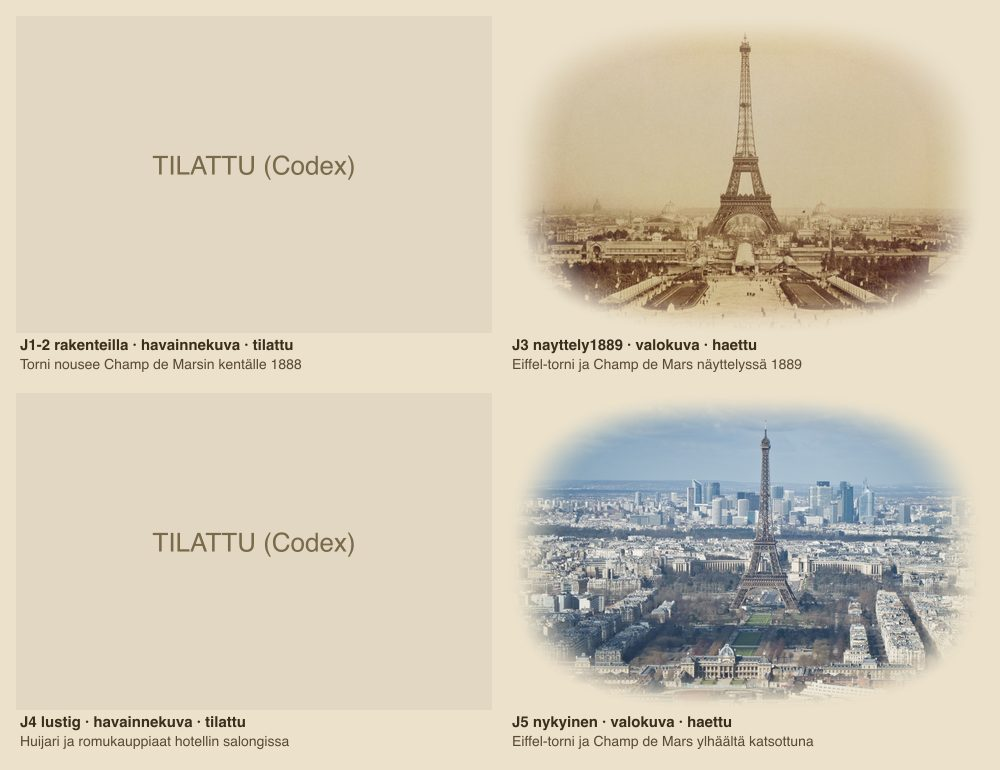
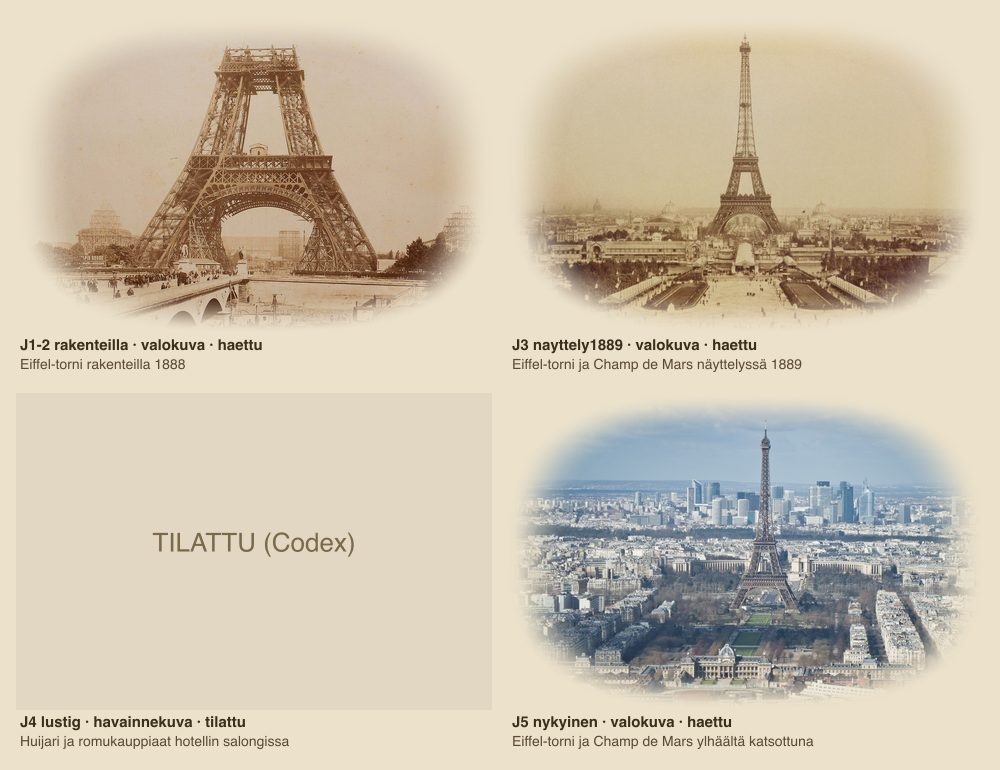
K-4 erä 1 korjaukset (KK 11.42): Eiffel J1–2 Neurdein 1888, Garnier J3 Hauger-kaiverrus ja J1 esirajaus, Lavoisier J1 pois, Curie-korvaustilaus, raportit ja arkit

Changed region(s): [[0.031, 0.0623, 0.496, 0.4987]]

diff --git a/js/packs/fokuskohteet-fra.js b/js/packs/fokuskohteet-fra.js
@@ -648,11 +648,13 @@ export const FOKUSKOHTEET_FRA = [
     jaksot: [
       {
         osa: 'tapahtuma',
+        kuva: 'rakenteilla',
         teksti: 'Eiffel-torni rakennettiin seisomaan vain kaksikymmentä vuotta, ja kerran huijari myi sen '
           + 'romuksi. Ennen tornia paikalla oli Champ de Mars, sotilaiden harjoituskenttä.',
       },
       {
         osa: 'tapahtuma',
+        kuva: 'rakenteilla',
         teksti: 'Vuonna 1887 kentälle alettiin koota rautatornia maailmannäyttelyä varten. Työmiehet niittasivat '
           + 'tuhansia osia yhteen yhä korkeammalla. Moni pariisilainen vastusti tornia, mutta vuonna 1889 se '
           + 'oli valmis.',
@@ -685,6 +687,16 @@ export const FOKUSKOHTEET_FRA = [
       },
     ],
     jaksokuvat: {
+      rakenteilla: {
+        osoite: 'https://media.matkakirja.app/kuvat/eiffel-torni-rakenteilla.jpg',
+        laji: 'valokuva',
+        lyhyt: 'Eiffel-torni rakenteilla 1888',
+        lahde: 'Neurdein, 1888, Wikimedia Commons (public domain), rajattu',
+        tekija: 'Neurdein',
+        lisenssi: 'Public domain',
+        leveys: 1200,
+        korkeus: 800,
+      },
       nayttely1889: {
         osoite: 'https://media.matkakirja.app/kuvat/eiffel-torni-nayttely1889.jpg',
         laji: 'valokuva',
@@ -1116,7 +1128,7 @@ export const FOKUSKOHTEET_FRA = [
     jaksot: [
       {
         osa: 'tapahtuma',
-        kuva: 'laboratorio',
+        kuva: 'koe',
         teksti: 'Lavoisierin laboratorio oli Arsenaalin asunnon yhteydessä Pariisissa. Antoine Lavoisier johti '
           + 'Arsenaalissa ruudin valmistusta ja punnitsi laboratoriossaan kaiken ennen koetta ja sen jälkeen. '
           + 'Tuloksista hän päätteli, että ainetta on kokeen jälkeen yhtä paljon kuin ennen sitä.',
@@ -1158,16 +1170,6 @@ export const FOKUSKOHTEET_FRA = [
      * hetken havainnekuva sekä jaksoille 4 ja 5 Commons-kuvat (SK 18.11.2026, KK 03.32).
      */
     jaksokuvat: {
-      laboratorio: {
-        osoite: 'https://media.matkakirja.app/kuvat/lavoisier-1780-laboratorio.jpg',
-        laji: 'havainnekuva',
-        lyhyt: 'Lavoisier ja laboratorion välineet, havainnekuva',
-        lahde: 'Tekoälyllä tuotettu havainnekuva; Matkakirjan havainnekuva. Faktat: Science History Institute; laboratorion sisustus on dramatisoitu, rajattu',
-        tekija: 'Matkakirja (tekoälyllä tuotettu havainnekuva)',
-        lisenssi: 'Matkakirjan oma',
-        leveys: 1200,
-        korkeus: 800,
-      },
       koe: {
         osoite: 'https://media.matkakirja.app/kuvat/lavoisier-1780-koe.jpg',
         laji: 'piirros',
@@ -1417,6 +1419,7 @@ export const FOKUSKOHTEET_FRA = [
       },
       {
         osa: 'kaanne',
+        kuva: 'palo',
         teksti: 'Syksyllä 1873 vanha oopperatalo paloi. Palon jälkeen Garnierin työmaa sai jatkua, ja uusi talo '
           + 'valmistui alle kahdessa vuodessa.',
         vuodet: [
@@ -1439,7 +1442,7 @@ export const FOKUSKOHTEET_FRA = [
         osoite: 'https://media.matkakirja.app/kuvat/palais-garnier-piirtosali.jpg',
         laji: 'valokuva',
         lyhyt: 'Arkkitehdit Garnierin piirtosalissa',
-        lahde: 'Louis-Émile Durandelle, Metropolitan Museum of Art, Wikimedia Commons (CC0), rajattu',
+        lahde: 'Louis-Émile Durandelle, Metropolitan Museum of Art, Wikimedia Commons (CC0), esirajattu ja rajattu',
         tekija: 'Louis-Émile Durandelle',
         lisenssi: 'CC0',
         leveys: 1200,
@@ -1451,6 +1454,16 @@ export const FOKUSKOHTEET_FRA = [
         lyhyt: 'Palais Garnierin työmaa 1866',
         lahde: 'Delmaet & Durandelle 1866, Wikimedia Commons (CC0), rajattu',
         tekija: 'Delmaet & Durandelle',
+        lisenssi: 'CC0',
+        leveys: 1200,
+        korkeus: 800,
+      },
+      palo: {
+        osoite: 'https://media.matkakirja.app/kuvat/palais-garnier-palo.jpg',
+        laji: 'piirros',
+        lyhyt: 'Vanhan oopperatalon palo rue Le Peletierillä',
+        lahde: 'Arthur Hauger (Le Monde illustré, 1873), Paris Musées / Musée Carnavalet, Wikimedia Commons (CC0), esirajattu ja rajattu',
+        tekija: 'Arthur Hauger',
         lisenssi: 'CC0',
         leveys: 1200,
         korkeus: 800,

diff --git a/docs/raportit/pariisi-nostojen-kuvat-era1-k4-20261120.md b/docs/raportit/pariisi-nostojen-kuvat-era1-k4-20261120.md
@@ -2,11 +2,13 @@
 
 Haara `sk/k4-era1-kuvat` (pohjana sk/l5-nostotekstit-era1 + origin/main K-3), draft-PR, EI mainiin ennen KK:n sanaa. Kuvia ei ole ladattu ämpäriin: vientikuvat ovat kansiossa `/Users/Shared/Claude/luovutukset/sk-k4-era1/_ampari/` (osoitteet `https://media.matkakirja.app/kuvat/<nimi>.jpg`, hahmotelmien ihmekuva `…/kohtaamiset/ihmeet/<nimi>-3x2.jpg`), ja ne pitää viedä ämpäriin ennen kuin PR yhdistetään (JU/PT).
 
+**Korjauskierros KK:n päätöksellä 20.11. 11.42** (aito kuva ensin; pääaihe häivyttämättömällä keskialueella 75 % × 75 %; esirajaus sharpilla sallittu, tulos ≥ 1200 × 800, lähderiviin "rajattu"): Eiffel J1–2 Neurdein 1888 aitona (Codex-tilaus pois), Garnier J3 Hauger-kaiverrus esirajattuna (Codex-tilaus pois) ja J1 piirtosali esirajattu oman ovaalinsa sisään, Lavoisier J1:n havainnekuva pois (piirros kattaa J1–2), Curie J1:n korvaava kuva tilauslistalle, Pasteur J2–3 ja Eiffel J3 mitattu (ks. luku 4). Luvut alla ovat korjauksen jälkeen.
+
 ## 1. M2: rikkeet ennen | nyt (13 noston osalta)
 
 - **Ennen** (origin/main, lähtöluettelo): 13 nostoa rikkoo; liikaa 5, tekijä 13, lisenssi 13, mitat 13, havainnekuvan lähderivi 6.
-- **Nyt:** 3 nostoa rikkoo, kaikki `vajaa` ja kaikki odottavat Codex-kuvaa: **eiffel-torni** (2 kuvaa, 2 tilattu), **sainte-chapelle** (1 kuva, 3 tilattu), **curie-1898** (2 kuvaa, 2 tilattu). Louvre ja Garnier ovat 3 kuvaa + 1 tilattu: 3 kuvaa riittää, joten ne eivät rikko.
-- Lähtöluettelo päivitetty (`docs/raportit/pariisin-nostokuvat-rikkeet-lahto-20261120.json`): 46 → 36 rikkovaa nostoa. Huom. B:n (4 kadonnutta) `vajaa` kasvoi, koska KK:n päätöksellä 10.44 niiden nähtävyysjuttukopiot poistuivat (kuvat tulevat K-4:n myöhemmässä erässä); `tools/sisalto/nostokuvien-tarkistus.mjs` lukee B:n nyt hahmotelmasta (`B_HAHMOTELMA`): PK:n tiedoston muutos, ilmoitettu KK:lle.
+- **Nyt:** 2 nostoa rikkoo, kumpikin `vajaa` ja odottaa Codex-kuvia: **sainte-chapelle** (1 kuva, 3 tilattu) ja **curie-1898** (2 kuvaa, 3 tilattu). Eiffel on nyt 3 kuvaa + 1 tilattu (Lustig), joten se ei enää riko. Louvre on 3 kuvaa + 1 tilattu: 3 kuvaa riittää, joten ne eivät rikko.
+- Lähtöluettelo päivitetty (`docs/raportit/pariisin-nostokuvat-rikkeet-lahto-20261120.json`): 46 → 35 rikkovaa nostoa. Huom. B:n (4 kadonnutta) `vajaa` kasvoi, koska KK:n päätöksellä 10.44 niiden nähtävyysjuttukopiot poistuivat (kuvat tulevat K-4:n myöhemmässä erässä); `tools/sisalto/nostokuvien-tarkistus.mjs` lukee B:n nyt hahmotelmasta (`B_HAHMOTELMA`): PK:n tiedoston muutos, ilmoitettu KK:lle.
 - Testit: tasalaatu, noston-jaksot, noston-kuvat, noston-tekstisaannot, kuvatekijat, lisenssit vihreät. Tuileries'n kaksi testiä päivitetty uusiin kuviin (4 kuvaa).
 
 ## 2. Kuvien tila nostoittain
@@ -16,32 +18,32 @@ Haara `sk/k4-era1-kuvat` (pohjana sk/l5-nostotekstit-era1 + origin/main K-3), dr
 | tuileries | 3 | 1 | 0 | 4 |
 | louvre | 2 | 1 | 1 | 3 |
 | bastilji | 3 | 1 | 0 | 4 |
-| eiffel-torni | 0 | 2 | 2 | 2 |
+| eiffel-torni | 0 | 3 | 1 | 3 |
 | sainte-chapelle | 1 | 0 | 3 | 1 |
-| curie-1898 | 1 | 1 | 2 | 2 |
+| curie-1898 | 1 | 1 | 3 | 2 |
 | lumiere-1895 | 0 | 4 | 0 | 4 |
-| lavoisier-1780 | 1 | 3 | 0 | 4 |
+| lavoisier-1780 | 0 | 3 | 0 | 3 |
 | pasteur-1862 | 0 | 4 | 0 | 4 |
-| palais-garnier | 0 | 3 | 1 | 3 |
+| palais-garnier | 0 | 4 | 0 | 4 |
 | palais-orsay | 1 | 3 | 0 | 4 |
 | palais-industrie | 3 | 1 | 0 | 4 |
 | les-halles | 3 | 1 | 0 | 4 |
-| **yhteensä** | 18 | 25 | 9 | 43 |
+| **yhteensä** | 17 | 27 | 8 | 44 |
 
 ## 3. M-rivit
 
 - **M1 silmin:** luku 5 (jakso | kertoja sanoo | kuva | laji | lähde, tekijä, lisenssi, linkki | tila, nostoittain) ja 13 kontaktiarkkia `docs/raportit/k4-era1-kontaktiarkit/<nosto>.jpg` (soikea reuna beigellä pohjalla, 1000 px leveä; tilattu kuva = tyhjä laatta).
 - **M2:** luku 1.
 - **M3:** jokaisen haetun kuvan lisenssi ja tekijä luettu Commonsin rajapinnasta `tools/hae-commons.mjs`-työkalulla (pyynnöt peräkkäin, ei virheitä), kuva katsottu silmin, rajattujen lähderivi päättyy "rajattu"; linkit luvussa 5.
-- **M4:** Codexin tilauslista omana tiedostonaan: `docs/raportit/pariisi-nostojen-kuvat-era1-codex-tilauslista-20261120.md` (9 kuvaa, pohja täytettynä; KOKO-rivi lisätty). Tilauksia ei ole lähetetty (K-5).
+- **M4:** Codexin tilauslista omana tiedostonaan: `docs/raportit/pariisi-nostojen-kuvat-era1-codex-tilauslista-20261120.md` (8 kuvaa, pohja täytettynä; KOKO-rivi lisätty; Curien korvaava vajakuva lisätty, Eiffel J1–2 ja Garnier J3 poistettu). Tilauksia ei ole lähetetty (K-5).
 - **M5:** viimeinen kuva on valokuva niissä nostoissa, joissa kuvia on; havainnekuvan lähderivi alkaa "Tekoälyllä tuotettu havainnekuva" ja laji-kenttä on jokaisella kuvalla (tasalaatutesti). Eiffel, Sainte-Chapelle ja Curie odottavat tilausta, ja niiden viimeinen kuva on valokuva jo nyt (Eiffel: Tour Montparnassen näköalapaikka; Sainte-Chapelle: yläkappelin ikkunat; Curie: muistolaatta).
 
 ## 4. Avoimet kohdat KK:lle (ei tekstimuutoksia omin päin)
 
-1. **Ämpäri:** 43 uutta 1200 × 800 -kuvaa pitää viedä ämpäriin (`_ampari/`, myös 2048 px:n versiot suurennoksiin) ennen kuin PR yhdistetään. Hahmotelmien (Orsay, Industrie, Les Halles) ihmekuva korvattiin 3:2-rajauksella (`kohtaamiset/ihmeet/…-3x2.jpg`), jotta noston kuvalista on 4 eikä 5; Tuileries'n ja Bastiljin `ihme.osoite` ja jakson 1 kuva ovat samat: `kohtaamiset/ihmeet/ihme-<id>-loistoaika-v2-3x2.jpg`. Kartan ihmekortin kuva muuttuu siis 3:2-versioksi.
-2. **Tilatut jaksot jäivät ilman kuvaa**, kunnes Codex-kuvat tulevat (Eiffel J1–2 ja J4, Sainte-Chapelle J1–4 paitsi J5, Curie J2–4, Louvre J2–3, Garnier J3). Vanhat hylätyt kuvat eivät ole nostossa (kasvot lähikuvana, kehys, liian pieni); ne eivät poistu palvelimelta.
-3. **Visat:** yksikään kuvateksti ei paljasta vastausta; Lavoisierin J1 Codex-kuva (nainen piirtää laitepiirustusta) vihjaa Marie-Annen osuuteen (visan vastaus) ja Tuileries'n purkukuvassa seisovat muurit ovat visan vastaus "Kivimuurit"; päätettävä, riittääkö.
-4. **Heikot kohdat:** Les Hallesin purkukuva (1971; lisenssi CC BY-SA 4.0 rajapinnasta, vuosi todennettavissa vain luokista) · Les Hallesin loistokuvan torimummon kasvot puolilähikuvana (tekoälykuvan kasvosääntö, rajalla; pidetty) · Lumièren J1 bulevardikuvan tekijä ja vuosi eivät ole Commonsissa · Garnierin piirtosalivedoksen oma ovaali erottuu hieman oikeassa reunassa · Lavoisier J4: seinässä haalea museokirjoitus · Eiffel J3 on vuodelta 1889 vaikka jakso sanoo "kaksikymmentä vuotta kului", huippu yläreunan häivytyksessä · Industrien portti on julkisivun lähikuva · Orsayn Liébert-kuvan päädyt häipyvät.
+1. **Ämpäri:** 44 uutta 1200 × 800 -kuvaa pitää viedä ämpäriin (`_ampari/`, myös 2048 px:n versiot suurennoksiin) ennen kuin PR yhdistetään. Hahmotelmien (Orsay, Industrie, Les Halles) ihmekuva korvattiin 3:2-rajauksella (`kohtaamiset/ihmeet/…-3x2.jpg`), jotta noston kuvalista on 4 eikä 5; Tuileries'n ja Bastiljin `ihme.osoite` ja jakson 1 kuva ovat samat: `kohtaamiset/ihmeet/ihme-<id>-loistoaika-v2-3x2.jpg`. Kartan ihmekortin kuva muuttuu siis 3:2-versioksi.
+2. **Tilatut jaksot jäivät ilman kuvaa**, kunnes Codex-kuvat tulevat (Eiffel J4, Sainte-Chapelle J1–4 paitsi J5, Curie J1 (nykyinen havainnekuva pidetään kunnes korvaava tulee), J2–4, Louvre J2–3). Vanhat hylätyt kuvat eivät ole nostossa (kasvot lähikuvana, kehys, liian pieni); ne eivät poistu palvelimelta.
+3. **Visat:** yksikään kuvateksti ei paljasta vastausta. Lavoisierin J1 Codex-kuva poistettu (KK 11.42); Tuileries'n purkukuva hyväksytty (kertoja sanoo saman jaksossa 3). Visasääntö (KK 11.42): kuva saa näyttää sen, minkä kertoja samassa jaksossa sanoo; ei ennen sitä, eikä kuvatekstissä koskaan.
+4. **Heikot kohdat (korjauskierroksen jälkeen):** Les Hallesin purkukuva (1971; lisenssi CC BY-SA 4.0 rajapinnasta) · Les Hallesin torimummon kasvot puolilähikuvana · Lumièren J1 bulevardikuvan tekijä ja vuosi eivät ole Commonsissa · Lavoisier J4: seinässä haalea museokirjoitus · Industrien portti on julkisivun lähikuva · Orsayn Liébert-kuvan päädyt häipyvät (KK hyväksyi nämä 11.42). **Uudet mitat:** Eiffel J1–2 Neurdein: torni 9–80 % kuvan korkeudesta, huipun ylin kohta n. 3 prosenttiyksikköä häivytyksen puolella (lähteessä ei ole lisää ilmaa; muuten jalat ja sivut häivyttämättömällä alueella). Eiffel J3: lähteessä ei ilmaa lisää yläpuolella, jää ennalleen (torni 5–70 %). **Pasteur J2–3 pullokuva:** 3:2-rajaus täyttää lähteen koko leveyden (3840 px), joten --keski oikealle ei auta; mitat 1200 × 800 -kuvassa: pallo x 63–87 %, y 54–97 % (jalusta soikean häivytyksen puolella). Muuttamatta jätetty; ainoa keino olisi taustan laajennus (ei pelkkää rajausta) tai toinen kuva: KK päättää.
 5. **Jaksot ilman omaa kuvaa:** Lumièren J4–5 (jono, laatta), Pasteurin Pouchet ja jäätikkö (varakuva Bissonin Chamonix 1860, PD, ladattu), Garnierin murhayritys 1858, Berlioz'n juhla (Industrie J3), Philippe Augusten 1183 ja Forum des Halles (Les Halles J1, J5).
 6. **Työkalut:** `tools/hae-commons.mjs lataa` kirjoittaa oletuksena repon sisään ja lyhentää nimet 60 merkkiin; `node_modules` puuttuu checkoutista (sharp ajettiin Matkakirja-fablen asennuksesta).
 
@@ -153,19 +155,19 @@ Haara `sk/k4-era1-kuvat` (pohjana sk/l5-nostotekstit-era1 + origin/main K-3), dr
 
 | Jakso | Kertoja sanoo | Kuva | Laji | Lähde, tekijä, lisenssi, linkki | Tila |
 |---|---|---|---|---|---|
-| 1-2 | Eiffel-torni rakennettiin seisomaan vain kaksikymmentä vuotta, ja kerran huijari myi sen romuksi. Ennen tornia paikalla oli Champ de Mars, sotilaiden harjoituskenttä. / Vuonna 1887 kentälle alettiin koota rautatornia maailmannäyttelyä varten. Työmiehet niittasivat tuhansia osia yhteen yhä korkeammalla. Moni pariisilainen vastusti tornia, mutta vuonna 1889 se oli valmis. | rakenteilla: Torni nousee Champ de Marsin kentälle 1888 (ei kuvaa) | havainnekuva | Matkakirjan oma (tilaus, ks. TILAUKSET.md 1) | tilattu |
+| 1-2 | Eiffel-torni rakennettiin seisomaan vain kaksikymmentä vuotta, ja kerran huijari myi sen romuksi. Ennen tornia paikalla oli Champ de Mars, sotilaiden harjoituskenttä. / Vuonna 1887 kentälle alettiin koota rautatornia maailmannäyttelyä varten. Työmiehet niittasivat tuhansia osia yhteen yhä korkeammalla. Moni pariisilainen vastusti tornia, mutta vuonna 1889 se oli valmis. | rakenteilla: Eiffel-torni rakenteilla 1888 (eiffel-torni-rakenteilla.jpg) | valokuva | Neurdein, 1888, Wikimedia Commons (public domain), rajattu; https://commons.wikimedia.org/wiki/File:Paris,_Tour_Eiffel_by_Neurdein,_1888.jpg | haettu |
 | 3 | Kaksikymmentä vuotta kului, mutta kukaan ei purkanut tornia. Sen huipulla oli radioantenni, ja armeijalle siitä oli niin paljon hyötyä, että torni sai jäädä. | nayttely1889: Eiffel-torni ja Champ de Mars näyttelyssä 1889 (eiffel-torni-nayttely1889.jpg) | valokuva | Tuntematon valokuvaaja, Wikimedia Commons (Public domain), rajattu; https://commons.wikimedia.org/wiki/File:Eiffel_Tower_and_Champ_de_Mars_seen_from_Trocad%C3%A9ro_Palace,_Paris_Exposition,_1889.jpg | haettu |
 | 4 | Vuonna 1925 huijari Victor Lustig luki lehdestä, että tornin kunnossapito on kallista. Väärennetyin virkapaperein hän esiintyi ministeriön apulaisjohtajana ja myi muka tornin romukauppiaalle. Kauppias häpesi eikä ilmoittanut poliisille, joten Lustig palasi ja yritti uudestaan. | lustig: Huijari ja romukauppiaat hotellin salongissa (ei kuvaa) | havainnekuva | Matkakirjan oma (tilaus, ks. TILAUKSET.md 2) | tilattu |
 | 5 | Torni seisoo yhä. Vanha harjoituskenttä on nykyään puisto sen jalalla, ja ensimmäisen kerroksen alle on kirjoitettu kullatuin kirjaimin 72 ranskalaisen tiedemiehen ja insinöörin nimeä. | nykyinen: Eiffel-torni ja Champ de Mars ylhäältä katsottuna (eiffel-torni-nykyinen.jpg) | valokuva | Carlos Delgado, Wikimedia Commons (CC BY-SA 3.0), rajattu; https://commons.wikimedia.org/wiki/File:Tour_Eiffel,_%C3%89cole_militaire,_Champ-de-Mars,_Palais_de_Chaillot,_La_D%C3%A9fense_-_01.jpg | haettu |
 
-Yhteensä: 2 haettu, 2 tilattu, 0 pidetään.
+Yhteensä: 3 haettu, 1 tilattu, 0 pidetään (KK 20.11. 11.42: jakson 1–2 tilaus poistui, aito Neurdein 1888).
 
 #### Perustelut
 
 - 5 jaksoa, 4 kuvaa: yksi kuva (jakso 1-2) kattaa avauksen (Champ de Mars) ja rakentamisen.
 - Jakso 5: valokuva Tour Montparnassen näköalapaikalta; torni kokonaan, ja sen jalalla näkyy Champ de Marsin puisto, jonka jakso mainitsee. Tämä oli ainoa löytämäni vapaa vaakakuva, jossa torni on kokonaan ja korkeus on 60 % kuvasta. Mitta: torni 9-69 % kuvan korkeudesta, keskellä vaakasuunnassa; sijainti on noin 11 prosenttiyksikköä tavoitetta ylempänä, koska lähdekuva on jo 3:2 eikä ylhäältä voi rajata lisää ilmaa. Antennin kärki on yläreunan häivytyksessä.
 - Jakso 3: ei vapaata vaakakuvaa 1900-luvun alusta, jossa torni on kokonaan (LoC:n photochromit ovat pystykuvia tai tornin huippu leikkautuu). Valittu 1889 Trocadéron näkymä (sepia): torni kokonaan, Champ de Mars ja näyttelyalue taustalla. Mitta: torni 5-70 % kuvan korkeudesta, huippu osin yläreunan häivytyksessä.
-- Jakso 1-2 ja 4: tilaus. Keskeneräisestä tornista ei ole vapaata vaakakuvaa, jossa torni mahtuu 60 %:iin (Neurdein 1888: torni 73 %; Decauville-kuva: torni oikealla 36-92 %; Durandelle ja Féau pystykuvia). Lustigin huijauksesta ei ole valokuvaa.
+- Jakso 1-2 (KK 20.11. 11.42): Neurdein 1888 aitona (lähde 1600 x 1282, rajaus 1600 x 1067 ylärivistä; torni 9–80 % kuvan korkeudesta, jalat ja sivut häivyttämättömällä alueella, huipun ylin kohta 9 %:ssa eli n. 3 prosenttiyksikköä häivytyksen puolella; lähteessä ei ole lisää ilmaa yläpuolella). Jakso 4: tilaus (Lustig, ei valokuvaa).
 
 #### Hylätty
 
@@ -181,7 +183,7 @@ Yhteensä: 2 haettu, 2 tilattu, 0 pidetään.
 
 1. VISA: 'Miksi huijarin uhri ei ilmoittanut huijauksesta poliisille?' vastaus 'Hän häpesi'. Kuvatekstit eivät mainitse häpeää; Lustig-tilauksessa kielto "kauppiaiden häpeä".
 2. Jakso 3: kuvan vuosi 1889, jakso puhuu 20 vuoden jälkeisestä ajasta ja antennista (kuvateksti "näyttelyssä 1889" kertoo kuvan, ei väitä muuta). Vaihtoehto: tilata Codex-kuva tornista noin 1914 antenneineen.
-3. Kaksi kuvaa tilattu (1-2, 4); nämä vaativat Codex-ajon ennen vientiä. Jakson 4 tilauksesta puuttuu hotellisalongin viitekuva (Hôtel de Crillon; ei varmistettu).
+3. Yksi kuva tilattu (jakso 4, Lustig); vaatii Codex-ajon ennen vientiä. Jakson 4 tilauksesta puuttuu hotellisalongin viitekuva (Hôtel de Crillon; ei varmistettu).
 4. Sivutuote: jakson 5 kuvassa Palais de Chaillotin siivet ovat taustalla pieninä; ei pääaihe.
 5. Tornin mitat 60 %:iin eivät täyty kummassakaan haetussa kuvassa täsmälleen (kts. yllä); tarkempi mittaus vaatisi uuden kuvan.
 
@@ -232,7 +234,7 @@ Yhteensä: 1 pidetään, 0 haettu, 3 tilattu.
 | 4 | Työ vei yli kolme vuotta, ja vuonna 1902 heillä oli kymmenesosagramma puhdasta radiumkloridia. Iltaisin radium hohti pimeässä, ja Curiet ihailivat sitä. Marie sai fysiikan Nobelin vuonna 1903 Pierren ja Henri Becquerelin kanssa ja kemian Nobelin vuonna 1911 yksin. | hohto: Radium hohtaa pimeässä vajan hämärässä 1902 (ei kuvaa) | havainnekuva | Matkakirjan oma (TILAUKSET.md 2) | tilattu |
 | 5 | Koulun seinässä on laatta, joka kertoo löydöstä. Marien myöhempi laboratorio on lähellä Curie-museona. | laatta: Laatta kertoo radiumin löydöstä koulun seinässä (curie-1898-laatta.jpg) | valokuva | Monceau from San Antonio, Wikimedia Commons (CC BY 2.0), rajattu; https://commons.wikimedia.org/wiki/File:Plaque_-_Location_de_d%C3%A9couvert_du_radium_-_rue_Pierre_Brossolette,_Paris_5.jpg | haettu |
 
-Yhteensä: 1 pidetään, 1 haettu, 2 tilattu.
+Yhteensä: 1 pidetään, 1 haettu, 3 tilattu (KK 20.11. 11.42: jakson 1 havainnekuva pidetään toistaiseksi, korvaava kuva tilataan).
 
 #### Perustelut
 
@@ -251,7 +253,7 @@ Yhteensä: 1 pidetään, 1 haettu, 2 tilattu.
 #### Avoimet kysymykset KK:lle
 
 1. VISA: 'Minkä alkuaineen Curiet nimesivät Marien kotimaan mukaan?' vastaus Polonium. Kuvatekstit eivät mainitse poloniumia; tilauksen 1 kielto "alkuaineiden nimet" lisätty. Jakso 1 kuvateksti ja jakso 5 mainitsevat radiumin (vastauksen vaihtoehto), mutta eivät ole vastaus.
-2. Kaksi kuvaa tilattu (2-3, 4); viitekuvat vajasta ja hohdosta eivät ole varmistettuja.
+2. Kolme kuvaa tilattu (1 korvaava vaja, 2-3, 4); viitekuvat vajasta ja hohdosta eivät ole varmistettuja. KK 11.42: jakson 1 havainnekuvassa naisen kasvot ovat keskikuvana; kuva pidetään, kunnes korvaava (henkilöt selin tai kaukana) tulee; tilauspohja TILAUKSET.md 3.
 3. Jakso 5: laattakuvassa on tekstiä, ja nykykuvaksi se on heikko; vaihtoehto olisi tilata/kuvata ESPCI:n julkisivu.
 4. Jakson 5 teksti mainitsee Curie-museon; sen vapaata julkisivukuvaa ei löytynyt.
 
@@ -301,17 +303,16 @@ Yhteensä: 0 pidetään, 4 haettu, 0 tilattu.
 
 | Jakso | Kertoja sanoo | Kuva | Laji | Lähde, tekijä, lisenssi, linkki | Tila |
 |---|---|---|---|---|---|
-| 1 | Lavoisierin laboratorio oli Arsenaalin asunnon yhteydessä Pariisissa. Antoine Lavoisier johti Arsenaalissa ruudin valmistusta ja punnitsi laboratoriossaan kaiken ennen koetta ja sen jälkeen. Tuloksista hän päätteli, että ainetta on kokeen jälkeen yhtä paljon kuin ennen sitä. | laboratorio: Lavoisier ja laboratorion välineet, havainnekuva (lavoisier-1780-laboratorio.jpg) | havainnekuva | Tekoälyllä tuotettu havainnekuva; Matkakirjan havainnekuva. Faktat: Science History Institute; laboratorion sisustus on dramatisoitu, rajattu; https://media.matkakirja.app/kohtaamiset/historian-hetket/hetki-lavoisier-laboratorio-1780-kauko-photo-v4.jpg | pidetään |
-| 2 | Vuonna 1771 Lavoisier meni naimisiin Marie-Annen kanssa. Marie-Anne oppi englantia ja käänsi ulkomaisia tutkimuksia ranskaksi. Lavoisier huomasi kokeissaan, että palaessa aine yhtyy ilman osaan, jonka hän nimesi hapeksi. | koe: Lavoisierin koe laboratoriossa, 1700-luvun piirros (lavoisier-1780-koe.jpg) | piirros | Wellcome Collection, Wikimedia Commons (CC BY 4.0), rajattu; https://commons.wikimedia.org/wiki/File:%27Lavoisier_experimenting_in_his_laboratory_Wellcome_M0004489.jpg | haettu |
+| 1-2 | Lavoisierin laboratorio oli Arsenaalin asunnon yhteydessä Pariisissa. Antoine Lavoisier johti Arsenaalissa ruudin valmistusta ja punnitsi laboratoriossaan kaiken ennen koetta ja sen jälkeen. Tuloksista hän päätteli, että ainetta on kokeen jälkeen yhtä paljon kuin ennen sitä. / Vuonna 1771 Lavoisier meni naimisiin Marie-Annen kanssa. Marie-Anne oppi englantia ja käänsi ulkomaisia tutkimuksia ranskaksi. Lavoisier huomasi kokeissaan, että palaessa aine yhtyy ilman osaan, jonka hän nimesi hapeksi. | koe: Lavoisierin koe laboratoriossa, 1700-luvun piirros (lavoisier-1780-koe.jpg) | piirros | Wellcome Collection, Wikimedia Commons (CC BY 4.0), rajattu; https://commons.wikimedia.org/wiki/File:%27Lavoisier_experimenting_in_his_laboratory_Wellcome_M0004489.jpg | haettu |
 | 3 | Vuonna 1788 Jacques-Louis David maalasi Lavoisierista ja Marie-Annesta muotokuvan. Marie-Annen työ näkyi myös oppikirjassa: vuonna 1789 ilmestyneeseen Lavoisierin oppikirjaan hän piirsi laitteiden kuvat. | david: Davidin maalaus Lavoisierista ja Marie-Annesta 1788 (lavoisier-1780-david.jpg) | maalaus | Jacques-Louis David 1788, Wikimedia Commons (Public domain), rajattu; https://commons.wikimedia.org/wiki/File:David_-_Portrait_of_Monsieur_Lavoisier_and_His_Wife.jpg | haettu |
 | 4 | Lavoisier oli kuulunut vanhan hallinnon veronkantajiin. Vallankumouksen tuomioistuin tuomitsi hänet kuolemaan, ja hänet mestattiin toukokuun 8. päivänä 1794. Lavoisierin laboratorion välineitä on nykyään Arts et Métiers -museossa Pariisissa. | valineet: Lavoisierin laboratorion välineitä Arts et Métiersissä (lavoisier-1780-valineet.jpg) | valokuva | Rama, Wikimedia Commons (CC BY-SA 2.0 fr), rajattu; https://commons.wikimedia.org/wiki/File:Labo-Lavoisier-IMG_0501.jpg | haettu |
 
-Yhteensä: 1 pidetään, 3 haettu, 0 tilattu.
+Yhteensä: 0 pidetään, 3 haettu, 0 tilattu (KK 20.11. 11.42: J1-havainnekuva poistettu, piirros kattaa jaksot 1–2).
 
 #### Perustelut
 
-- 4 jaksoa, 4 kuvaa, yksi per jakso. Järjestys: havainnekuva, 1700-luvun piirros, maalaus, nykyvalokuva.
-- Jakso 1: nykyinen Codex-kuva pidetään (suunnitelma: ei pakollisia vaihtoja). Aidoista laboratoriokuvista (Wellcome M0004488 rakeinen ja kehyksellinen, diorama M0005412 tumma pienoismalli) kumpikaan ei näytä punnitusta yhtä hyvin.
+- 4 jaksoa, 3 kuvaa (jakso 1–2 yhteinen piirros). Järjestys: 1700-luvun piirros, maalaus, nykyvalokuva.
+- Jakso 1: nykyinen havainnekuva (laboratorio) POIS KK:n päätöksellä 11.42: tunnettujen henkilöiden kasvot puolilähikuvana ja nainen piirtämässä vihjaisivat visan vastauksen ennen jaksoa 3. Jakson 1–2 kuvaksi tulee J2:n aikalaispiirros.
 - Jakso 2: Wellcomen lavattu piirros laboratoriokokeesta (4150 x 2553), reunaviiva häipyy soikeaan reunaan.
 - Jakso 3: Davidin kaksoismuotokuva isosta PD-versiosta (4390 x 5852); rajaus päät ja ylävartalot, keski 0,5 / 0,33.
 - Jakso 4: Raman valokuva kaasumittareista CNAM:ssa (3072 x 2048, täsmälleen 3:2). Viimeinen kuva on aito nykyvalokuva.
@@ -326,7 +327,7 @@ Yhteensä: 1 pidetään, 3 haettu, 0 tilattu.
 
 #### Avoimet kysymykset KK:lle
 
-1. VISA: 'Mikä oli Marie-Anne Paulze Lavoisierin osuus kemian vallankumouksessa?' vastaus: hän käänsi englantilaiset tutkimukset ja piirsi laitteet. Kuvatekstit eivät mainitse käännöstä eikä piirtämistä, eikä Commonsin kuvauksia ole kopioitu. Riski: jakson 1 Codex-kuvassa nainen piirtää laitteiden piirustusta; kuva vihjaa vastaukseen. Jos halutaan, kuva vaihdetaan tai tilataan uusi ilman naisen piirtämistä.
+1. VISA: ratkaistu KK 11.42: J1:n havainnekuva poistettu. Kuvatekstit eivät mainitse käännöstä eikä piirtämistä. Visasääntö tarkentui: kuva saa näyttää sen, minkä kertoja samassa jaksossa sanoo, ei ennen sitä.
 2. Jakso 4: kuvassa on haalea seinäkirjoitus 'Laboratoire de Lavoisier' osin peittyneenä (yläoikealla). Muuten valokuva on paras löytynyt; vaihtoehtona nykyinen kuva, jossa teksti näkyy kokonaan.
 3. Jakso 3: maalaus esittää parin 1788, mutta kuvassa ei ole mestausta (jaksossa 4 mainitaan 1794); jakso 3 (muotokuva 1788) täsmää.
 4. Jakso 2: jaksossa kerrotaan hapen nimeämisestä ja Marie-Annen kääntämisestä; kuva näyttää koelaitteita ja kirjoittavan naisen mutta ei hapen löytöä.
@@ -367,24 +368,26 @@ Yhteensä: 0 pidetään, 4 haettu, 0 tilattu.
 3. Jakso 4 -kuva on 1885 (jakso kertoo 1860-luvusta ja 1865).
 4. Jakson 5 teksti mainitsee Institut Pasteurin; kuva näyttää vain ENS:n.
 
+5. (KK 20.11. 11.42, SK:n mittaus) Jakso 2-3: pullokuvan lähde (3840 x 2760) on jo kauttaaltaan käytössä: 3:2-rajaus täyttää koko leveyden, joten --keski oikealle ei muuta vaakasuuntaa. Mitta 1200 x 800 -kuvassa: pallo x 63–87 %, y 54–97 %; pallon oikea laita ja jalusta jäävät soikean häivytyksen puolelle (jalusta y 97 %). Ratkaisu vaatisi taustan laajennuksen (pääasia jäisi muokkaukseksi, ei rajaukseksi) tai toisen kuvan; jätetty ennalleen KK:n päätettäväksi.
+
 ### palais-garnier: kuvatyö (K-4 erä 1)
 
 #### Kuvat
 
 | Jakso | Kertoja sanoo | Kuva | Laji | Lähde, tekijä, lisenssi, linkki | Tila |
 |---|---|---|---|---|---|
-| 1 | Palais Garnier on Pariisin oopperatalo, jonka rakentamisen sai alkuun murhayritys. Vuonna 1858 keisari Napoleon III välttyi murhayritykseltä vanhan oopperan edessä. Sen jälkeen hän päätti rakennuttaa uuden. Kilpailuun tuli yli sata ehdotusta, ja voittajaksi valittiin nuori, tuntematon arkkitehti Charles Garnier. | piirtosali: Arkkitehdit Garnierin piirtosalissa (palais-garnier-piirtosali.jpg) | valokuva | Louis-Émile Durandelle, Metropolitan Museum of Art, Wikimedia Commons (CC0), rajattu; https://commons.wikimedia.org/wiki/File:-Charles_Garnier_in_the_Drafting_Room_While_Designing_the_New_Paris_Opera-_MET_DP116738.jpg | haettu |
+| 1 | Palais Garnier on Pariisin oopperatalo, jonka rakentamisen sai alkuun murhayritys. Vuonna 1858 keisari Napoleon III välttyi murhayritykseltä vanhan oopperan edessä. Sen jälkeen hän päätti rakennuttaa uuden. Kilpailuun tuli yli sata ehdotusta, ja voittajaksi valittiin nuori, tuntematon arkkitehti Charles Garnier. | piirtosali: Arkkitehdit Garnierin piirtosalissa (palais-garnier-piirtosali.jpg) | valokuva | Louis-Émile Durandelle, Metropolitan Museum of Art, Wikimedia Commons (CC0), esirajattu ja rajattu; https://commons.wikimedia.org/wiki/File:-Charles_Garnier_in_the_Drafting_Room_While_Designing_the_New_Paris_Opera-_MET_DP116738.jpg | haettu |
 | 2 | Kun työmaalla kaivettiin perustuksia, maasta nousi pohjavettä. Garnier rakennutti kellariin vesitiiviin betonisäiliön. Vuonna 1870 alkanut sota ja Pariisin kommuuni pysäyttivät rakentamisen. | tyomaa: Palais Garnierin työmaa 1866 (palais-garnier-tyomaa.jpg) | valokuva | Delmaet & Durandelle 1866, Wikimedia Commons (CC0), rajattu; https://commons.wikimedia.org/wiki/File:Chantier_de_l%27_OPERA_-1866.jpg | haettu |
-| 3 | Syksyllä 1873 vanha oopperatalo paloi. Palon jälkeen Garnierin työmaa sai jatkua, ja uusi talo valmistui alle kahdessa vuodessa. | palo: Vanhan oopperatalon palo 1873 (ei kuvaa) | havainnekuva | Tekoälyllä tuotettu havainnekuva; tilattu (ks. TILAUKSET.md) | tilattu |
+| 3 | Syksyllä 1873 vanha oopperatalo paloi. Palon jälkeen Garnierin työmaa sai jatkua, ja uusi talo valmistui alle kahdessa vuodessa. | palo: Vanhan oopperatalon palo rue Le Peletierillä (palais-garnier-palo.jpg) | piirros | Arthur Hauger (Le Monde illustré, 1873), Paris Musées / Musée Carnavalet, Wikimedia Commons (CC0), esirajattu ja rajattu; https://commons.wikimedia.org/wiki/File:Incendie_du_th%C3%A9%C3%A2tre_de_l%27Op%C3%A9ra,_vue_prise_rue_Le_Peletier._Paris_Mus%C3%A9es_20230613105245.jpg | haettu |
 | 4 | Talo avattiin tammikuussa 1875, ja Garnier joutui maksamaan paikkansa avajaisissa itse. Nykyään talossa esitetään yhä balettia, ja katsomon katon on maalannut Marc Chagall vuonna 1964. | portaikko: Palais Garnierin pääportaikko (palais-garnier-portaikko.jpg) | valokuva | Pierre André Leclercq, Wikimedia Commons (CC BY-SA 4.0), rajattu; https://commons.wikimedia.org/wiki/File:Paris_l%27Op%C3%A9ra_Garnier_Le_grand_escalier.jpg | haettu |
 
-Yhteensä: 0 pidetään, 3 haettu, 1 tilattu.
+Yhteensä: 0 pidetään, 4 haettu, 0 tilattu (KK 20.11. 11.42: palo aitona Hauger-kaiverruksena, piirtosali esirajattu oman ovaalinsa sisään).
 
 #### Perustelut
 
-- 4 jaksoa, 4 kuvaa, yksi per jakso. Järjestys: 1860-luvun piirtosalikuva, 1866 työmaa, palo (tilattu), nykyvalokuva.
-- Jakso 1: MET:n Durandelle-valokuva Garnierin piirtosalista (CC0). Jakso 2: Delmaet & Durandellen työmaakuva 1866 (CC0, 3456 x 1944, rajaus oikeasta reunasta). Jakso 4: portaikko, ei Chagall-kattoa.
-- Jakso 3: palosta ei löytynyt puhdasta riittävän suurta aitoa kuvaa, joten Codex-tilaus (TILAUKSET.md). Commonsin Carnavalet- ja Paris Musées -kokoelmien CC0-kuvat tutkittiin: Hauger-kaiverrus (6777 x 4691) on paperireunainen ja kuvateksti näkyy soikeassa esikatselussa; Méaulle-kaiverrus on kollaasi; PH28183 on 1895 (rue Richer, décors-palo); Leymonnerye-piirros on pystykuva pahvilla.
+- 4 jaksoa, 4 kuvaa, yksi per jakso. Järjestys: 1860-luvun piirtosalikuva, 1866 työmaa, palon kaiverrus, nykyvalokuva.
+- Jakso 1: MET:n Durandelle-valokuva Garnierin piirtosalista (CC0), esirajattu oman ovaalinsa sisään (2650 x 1766 pikseliä 595,547; ei paperia, ei ovaalin reunaa; KK 11.42), sitten 3:2. Jakso 2: Delmaet & Durandellen työmaakuva 1866 (CC0, 3456 x 1944, rajaus oikeasta reunasta). Jakso 4: portaikko, ei Chagall-kattoa.
+- Jakso 3 (KK 20.11. 11.42): Hauger-kaiverrus (ladattu 3840 x 2658) esirajattu sharpilla kuva-alan sisään (3240 x 2035 pikseliä 300,165: ei paperireunaa, ei kuvatekstiä, ei signeerausta), sitten 3:2 → 1200 x 800. Näyttää yöllä palavan vanhan talon, palomiehet ja katsojat; uutta Opéraa ei näy. Laji piirros (kaiverrus). Codex-tilaus poistui.
 - Chagallin kattoa ei ole kuvissa pääaiheena eikä lainkaan.
 
 #### Hylätty
@@ -400,9 +403,9 @@ Yhteensä: 0 pidetään, 3 haettu, 1 tilattu.
 
 1. VISA: 'Kuka taiteilija maalasi Palais Garnierin katsomon katon 1960-luvulla?' (Marc Chagall). Kuvatekstit ja kuvat eivät mainitse Chagallia eikä kattoa.
 2. Jakso 1 kertoo murhayrityksestä 1858 ja arkkitehtikilpailusta; kuva näyttää Garnierin piirtosalin (kilpailun jälkeinen aika). Murhayrityksestä ei ole vapaata riittävän isoa kuvaa.
-3. Piirtosalikuvan oma ovaali jää osin näkyviin oikeassa reunassa (sääntö 10); jos se ei kelpaa, vaihtoehto on Codex-kuva tai nykykuva julkisivusta.
+3. (Ratkaistu KK 11.42) Piirtosalikuvan oma ovaali on esirajattu pois.
 4. Jakso 2 kertoo perustuksista ja pohjavedestä; kuva näyttää työmaan 1866 (perustusten jälkeen).
-5. Palo-kuva tilattu (jakso 3): yksi tilaus, pohja TILAUKSET.md.
+5. (Ratkaistu KK 11.42) Palo-kuva on nyt aito Hauger-kaiverrus; Codex-tilausta ei enää ole.
 
 ### palais-orsay: kuvatyö (K-4 erä 1)
 

diff --git a/docs/raportit/pariisi-nostojen-kuvat-era1-codex-tilauslista-20261120.md b/docs/raportit/pariisi-nostojen-kuvat-era1-codex-tilauslista-20261120.md
@@ -1,41 +1,12 @@
 # K-4 erä 1: Codexin tilauslista (K-5:lle; SK 20.11.2026)
 
-Tilattavia kuvia 9 (Eiffel 2, Sainte-Chapelle 3, Curie 2, Louvre 1, Garnier 1). Tilauksia ei ole lähetetty. Jokaisessa: KOKO = 3:2 vaaka, pääaihe keskimmäisen 60 % × 60 %:n sisällä, reunoilla vain taustaa, nurkissa ei mitään. Viitekuvat varmistettava Commonsista ennen tilausta.
+Tilattavia kuvia 8 (Eiffel 1, Sainte-Chapelle 3, Curie 3, Louvre 1; Garnierin palo ja Eiffelin jakso 1–2 poistuivat KK:n päätöksellä 20.11. 11.42: aito kuva ensin). Tilauksia ei ole lähetetty. Jokaisessa: KOKO = 3:2 vaaka, pääaihe keskimmäisen 60 % × 60 %:n sisällä, reunoilla vain taustaa, nurkissa ei mitään. Viitekuvat varmistettava Commonsista ennen tilausta.
 
 ## eiffel-torni
 
-### Eiffel-torni: tilattavat kuvat
+### Eiffel-torni: tilattavat kuvat (1; jakson 1–2 tilaus poistui, koska aito Neurdein 1888 -kuva kelpaa, KK 20.11. 11.42)
 
-## 1. Rakenteilla, jakso 1-2/5 (yksi kuva kahdelle peräkkäiselle jaksolle)
-
-TARINA JA JAKSO: eiffel-torni, jakso 1-2/5
-
-KERTOJA SANOO (sanatarkasti): "Eiffel-torni rakennettiin seisomaan vain kaksikymmentä vuotta, ja kerran huijari myi sen romuksi. Ennen tornia paikalla oli Champ de Mars, sotilaiden harjoituskenttä." / "Vuonna 1887 kentälle alettiin koota rautatornia maailmannäyttelyä varten. Työmiehet niittasivat tuhansia osia yhteen yhä korkeammalla. Moni pariisilainen vastusti tornia, mutta vuonna 1889 se oli valmis."
-
-KUVAN TEHTÄVÄ (yksi lause): Näyttää avaran Champ de Marsin kentän, jolle puoliksi valmis rautatorni nousee, ja kentällä muutaman työmiehen kaukaa.
-
-HETKI: Champ de Mars, Pariisi, kevät 1888 (torni toisen kerroksen tasolla), päivänvalo (lähde: Neurdein 1888, Decauville-valokuva huhtikuu 1888, Tilly/Fichot 8.4.1888 -piirros; sama rakennusvaihe kuin referensseissä).
-
-NÄKYMÄ: Katsotaan kentän poikki kaukaa Seinen suunnasta, torni kuvan keskellä. Etualalla tyhjää hiekkaista kenttää, radan pätkä ja pari hevosvaunua pienenä; taustalla puita ja Trocadéron palatsin torni sumuisena. Tornin rautarakenne puoliksi valmiina: jalat yhdistetty ensimmäisen kerroksen tasanteella, nostureita ja ahtaita puutelineitä, kahden pilarin haarat jatkuvat ylöspäin vielä erillään. Työmiehet ovat pieniä hahmoja tornin jalalla ja nosturin vieressä.
-
-PAKKO OLLA OIKEIN: (1) torni on kesken: ei toista kerrosta valmiina eikä huippua; (2) ympärillä avoin kenttä, ei näyttelyn paviljonkeja, ei väkijoukkoa; (3) rautarakenne ristikkoa ja niittejä, ei maalattua; (4) kaukaa otettu, valkoinen/kellertävä 1880-luvun valokuvan sävy mutta värillinen valokuvamainen havainnekuva.
-
-EI SAA NÄKYÄ: tunnetun henkilön (Eiffel) kasvot, kasvot lähikuvana, teksti ja kyltit, mainokset, nykyajan esineitä, 1889 valmis torni.
-
-VIITEKUVAT:
-- File:Paris, Tour Eiffel by Neurdein, 1888.jpg: Neurdein, Public domain (tornin rakennusvaihe ja rakenne)
-- File:Decauville V skip waggons in front of the Eiffel tower during its construction, April 1888.jpg: tuntematon kuvaaja, Public domain (avoin kenttä, jalat)
-- File:Exposition universelle de 1889 Vue à vol d'oiseau de l'état actuel des travaux, Paris Musées 20230616171945.jpg: Fichot/Tilly 1888, CC0 (kentän ympäristö)
-
-PARI: ei paria (viimeinen kuva on nykyvalokuva Champ de Marsilta)
-
-KOKO: 3:2 vaaka, koko torni (jalat mukaan) keskimmäisen 60 % × 60 %:n sisällä: tornin korkeus enintään 55 % kuvan korkeudesta, ilmaa tornin yllä vähintään 25 %, vaakasuunnassa tornin leveys enintään 45 %; reunoilla vain kenttää, puita ja taivasta, nurkissa ei mitään · otot enintään 2
-
-TOIMITUS: tarina-eiffel-torni-1-rakenteilla.jpg
-
----
-
-## 2. Lustigin huijaus, jakso 4/5
+## 1. Lustigin huijaus, jakso 4/5
 
 TARINA JA JAKSO: eiffel-torni, jakso 4/5
 
@@ -122,7 +93,7 @@ TOIMITUS: tarina-sainte-chapelle-4-parlamentti.jpg
 
 ## curie-1898
 
-### Curien vaja: tilattavat kuvat (2)
+### Curien vaja: tilattavat kuvat (3)
 
 ## 1. Radiumtyö, jakso 2-3/5 (yksi kuva kahdelle peräkkäiselle jaksolle)
 
@@ -158,6 +129,24 @@ PARI: ei paria
 KOKO: 3:2 vaaka, pääaihe (pöytä ja kaksi hahmoa) keskimmäisen 60 % × 60 %:n sisällä, reunoilla vain pimeää vajaa, nurkissa ei mitään · otot enintään 2
 TOIMITUS: tarina-curie-1898-4-hohto.jpg
 
+---
+
+## 3. Vaja, jakso 1/5 (korvaa nykyisen havainnekuvan, jossa naisen kasvot ovat keskikuvana; KK 20.11. 11.42)
+
+TARINA JA JAKSO: curie-1898, jakso 1/5
+KERTOJA SANOO (sanatarkasti): "Curien vaja oli Pariisin fysiikan ja kemian koulun pihalla seissyt vaja, jossa Marie ja Pierre Curie eristivät radiumin. Se oli ennen ollut ruumiinavaussali."
+KUVAN TEHTÄVÄ (yksi lause): Näyttää vajan sellaisena kuin se oli: koulun pihalla seisova karu vaja, jonka sisällä on vanhoja pöytiä ja laitteita, ja jossa henkilöt näkyvät vain selin tai kaukana.
+HETKI: ESPCI:n pihavaja, rue Vauquelin, Pariisi, noin 1898, päivänvalo, harmaa sää (lähde: AIP; Paris.fr; sama vaja kuin nykyisessä Matkakirjan vajakuvassa).
+NÄKYMÄ: Katsotaan vajan ovelta tai pihalta vinosti sisään pitkältä matkalta. Etualalla märkä pihan kivetys, keskellä puuovi ja vajan seinä, sisällä pitkä työpöytä, jolla lasiastioita ja vanha leikkauspöytä (viittaus entiseen ruumiinavaussaliin vain pöydän muodolla, ei ruumiita); taustalla yksi hahmo selin tai siluettina, ei toista henkilöä lähellä.
+PAKKO OLLA OIKEIN: (1) vaja on huonokuntoinen puu-lasirakennelma koulun pihalla, ei moderni laboratorio; (2) päivänvalo lasikaton läpi, ei sähkövaloa; (3) enintään yksi hahmo, selin tai kaukana, kasvot eivät erotu; (4) 1890-luvun vaatetus.
+EI SAA NÄKYÄ: tunnetun henkilön (Marie tai Pierre Curie) kasvot, ruumiita tai verta, teksti ja kyltit, hohtavaa ainetta, nykyajan esineitä.
+VIITEKUVAT: nykyinen Matkakirjan vajakuva (/Users/Shared/Claude/luovutukset/sk-k4-era1/curie-1898/curie-1898-vaja.jpg: sisustus ja valo; hahmot ja kasvot eivät mallina); File:Maria Skłodowska-Curie i Pierre Curie w laboratorium (1900).jpg: tuntematon, public domain (työvaatteet ja laitteet); vajan ulkokuva: haettava Commonsista ennen tilausta (ei varmistettu)
+PARI: ei paria
+KOKO: 3:2 vaaka, pääaihe (vaja ja pöytä) keskimmäisen 60 % × 60 %:n sisällä, reunoilla vain vajan seinää ja pihaa, nurkissa ei mitään · otot enintään 2
+TOIMITUS: tarina-curie-1898-1-vaja.jpg
+
+---
+
 ## louvre
 
 ### Louvre: tilattavat kuvat
@@ -186,23 +175,3 @@ PARI: nykyvalokuva ei ole parina; "ei paria"
 KOKO: 3:2 vaaka, pääaihe (kantaja ja tyhjä seinä) keskimmäisen 60 % × 60 %:n sisällä, reunoilla vain sali ja kehykset, nurkissa ei mitään · otot enintään 2
 
 TOIMITUS: tarina-louvre-2-varkaus.jpg
-
-## palais-garnier
-
-### TILAUS: Palais Garnier, palo (1)
-
-TARINA JA JAKSO: palais-garnier, jakso 3/4
-KERTOJA SANOO (sanatarkasti): "Syksyllä 1873 vanha oopperatalo paloi. Palon jälkeen Garnierin työmaa sai jatkua, ja uusi talo valmistui alle kahdessa vuodessa."
-KUVAN TEHTÄVÄ (yksi lause): Näyttää vanhan oopperatalon palamassa yöllä rue Le Peletierillä, palomiehet ja pariisilaiset kadulla katsomassa.
-HETKI: Vanha Opéra (Salle Le Peletier), rue Le Peletier, Pariisi, 29. lokakuuta 1873, yö (lähde: Wikipedia ja Paris Musées; kaiverrus Le Monde illustré 1873).
-NÄKYMÄ: Katsotaan kadulta (rue Le Peletier) vinosti kohti oopperatalon kaksikerroksista julkisivua ja palavaa kattoa; etualalla kivetty katu, palopumppu ja letkuja, hevosvaunu, joukko mustiin pukeutuneita hahmoja selin tai kaukana, kaasukatulamppu; taustalla savua ja liekkejä talon yllä ja naapurirakennukset.
-PAKKO OLLA OIKEIN: (1) 1870-luvun rakennus: matala klassinen julkisivu, ei Garnierin kullattua kupolia; (2) 1800-luvun palokalusto: käsipumppu ja hevoset, ei nykyisiä paloautoja; (3) yö, liekit valaisevat savua; (4) ihmiset 1870-luvun vaatteissa (silinterit, pitkät takit).
-EI SAA NÄKYÄ: tunnetun henkilön kasvot lähikuvana, teksti, kyltit, nykyajan esineitä (autot, sähkövalot), uutta Opéraa (Palais Garnier), veri, kuolleet.
-VIITEKUVAT:
-- File:Incendie du théâtre de l'Opéra, vue prise rue Le Peletier. Paris Musées 20230613105245.jpg: Arthur Hauger (kaiverrus, Le Monde illustré), CC0 (Paris Musées; kuvakulma ja tunnelma)
-- File:Paris Opera fire 29 10 1873.jpg: Illustrated London News 8.11.1873, public domain (liekit ja pelastajat)
-- File:Paris Opera fire façade 29 10 1873.jpg: tuntematon litografia 1873, public domain (julkisivu palossa)
-PARI: ei paria
-KOKO: 3:2 vaaka, pääaihe (palava talo ja katu) keskimmäisen 60 % × 60 %:n sisällä, reunoilla vain naapurirakennuksia ja yötaivasta, nurkissa ei mitään · otot enintään 2
-TOIMITUS: tarina-palais-garnier-3-palo.jpg
-
